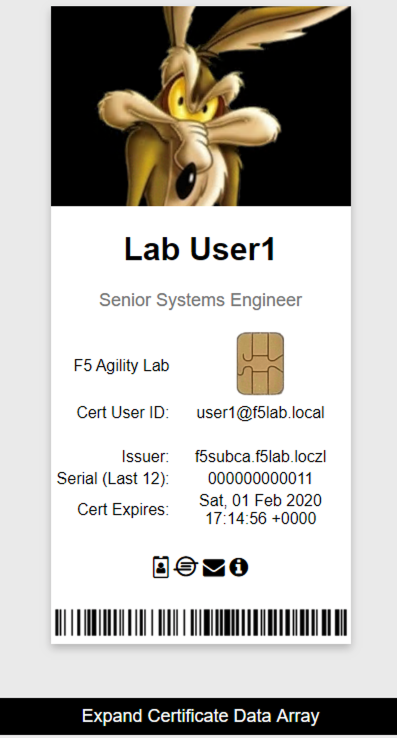
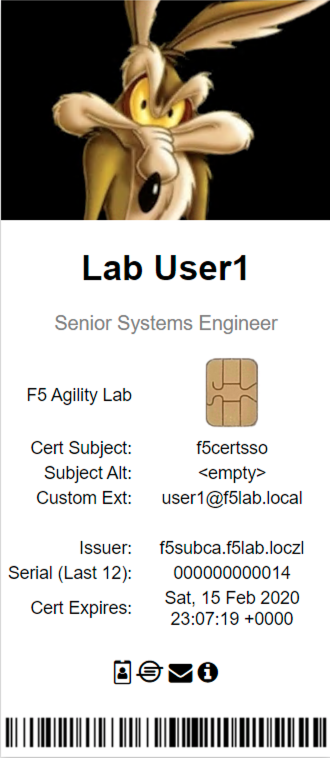
updated testing pages

diff --git a/docs/class1/module1/lab007.rst b/docs/class1/module1/lab007.rst
@@ -15,19 +15,23 @@ Task - Access mtls.acme.com
 
 |image44|
 
-3. You will be logged into the site displaying the Cert userID for **user1@f5lab.local**
+3. You will be logged into the site as **User1**. 
 
-4. Click the **Expand Certificate Data Array** to see the contents of the certificate.
+.. note ::  
+
+        The contents of the certificate used for logging into the website was the CertSSO certificate copied into Per-Session Policy. The irule attached inserted the custom extension 1.1.1.1 with the value containing the user's logon name.   Notice the Subject Name is CertSSO, the Subject Alternative Name is empty and the custom extension is user1@f5lab.local
+        
+ 	| Cert Subject: **f5certsso**
+	| Subject Alt: **<empty>**
+	| Custom Ext: **user1@f5lab.local**
+	
+
+        
+
+
 
 |image45|
 
-5. Scroll down the Certificate contents and you will see in **Subject Array** that the commonName of the certificate is **F5CertSSO**. This certificate was built using the contents of the certificate copied into the APM policy.
-
-|image46|
-
-6. Continue to scroll down to the **extensions array** section and you will see that a custom extension of **1.1.1.1** has been inserted into the minted certificate.  The value is **user1@f5lab.local** base64 encoded.
-
-|image47|
 
 7. Open a new incognito browser window so you can test access to mtls.acme.com with different user credentials.
 
@@ -35,34 +39,32 @@ Task - Access mtls.acme.com
 
 |image49|
 
-
-
-8. Login with the username: **user2** and password: **user2**
+8. Login with the username: **user2** and password: **User2**
 
 |image50|
 
-9. You will be logged into the site displaying the Cert userID for **user2@f5lab.local**
-10. Click the **Expand Certificate Data Array** to see the contents of the certificate
+9. You will be logged into the site as **user2@f5lab.local**
+
+.. note ::  
+
+        Notice that user2's Cert Subject is the same as User1, but the custom extension name is different containing user2@f5lab.local.        
+ 	
+        | Cert Subject: **f5certsso**
+	| Subject Alt: **<empty>**
+	| Custom Ext: **user2@f5lab.local**
 
 |image51|
 
-11. Scroll down the Certificate contents and you will see in **Subject Array** that the commonName of the certificate is **F5CertSSO**. This certificate was built using the contents of the certificate copied into the APM policy.
 
-|image46|
-
-12. Continue to scroll down to the **extension array** section and you will see that a custom extension of **1.1.1.1** has been inserted into the minted certificate.  The value is **user2@f5lab.local** base64 encoded.
-
-|image53|
 
 
 
 .. |image43| image:: /_static/module1/image043.png
 .. |image44| image:: /_static/module1/image044.png
 .. |image45| image:: /_static/module1/image045.png
-.. |image46| image:: /_static/module1/image046.png
-.. |image47| image:: /_static/module1/image047.png
+
 .. |image48| image:: /_static/module1/image048.png
 .. |image49| image:: /_static/module1/image049.png
 .. |image50| image:: /_static/module1/image050.png
 .. |image51| image:: /_static/module1/image051.png
-.. |image53| image:: /_static/module1/image053.png
+

diff --git a/docs/class1/module1/lab009.rst b/docs/class1/module1/lab009.rst
@@ -15,23 +15,49 @@ Task - Access mtls.acme.com
 
 |image44|
 
-#. You will be logged into the site displaying the Cert userID for **user1@f5lab.local**
+#. You will be logged into the site as **user1@f5lab.local**
 
-#. Click the **Expand Certificate Data Array** to see the contents of the certificate.
 
-|image45|
+.. note ::  
 
-#. Scroll down the certificate contents and you will see in **Subject Array** that the **commonName** of the certificate is **user1**. This certificate was built using the contents of the certificate retrieved using HTTP Connector.
+        The contents of the certificate used for logging into the website were from certificate retrieved via HTTP connector in Active Directory. The irule continues to 	insert the custom extension 1.1.1.1 with the value containing the user's logon name.   Notice the Subject Name is user1, the Subject Alternative Name is u		ser1@f5lab.local and the custom extension is user1@f5lab.local
+        
+ 	| Cert Subject: **user1**
+	| Subject Alt: **user1@f5lab.local**
+	| Custom Ext: **user1@f5lab.local**
+	
 
 |image85|
 
-#. Continue to scroll down to the **extension array** section and you will see the **subjectAltName** extension of **user1@f5lab.local** has been inserted into the minted certificate.
+7. Open a new incognito browser window so you can test access to mtls.acme.com with different user credentials.
+
+|image48|
+
+|image49|
+
+8. Login with the username: **user2** and password: **User2**
+
+|image50|
+
+9. You will be logged into the site as **user2@f5lab.local**
+
+.. note ::  
+
+	 Notice that user2's Cert Subject is now user2 and the subject alt is user2@f5lab.local.  The irule continues to insert the custom extension.   	
+        | Cert Subject: **user2**
+	| Subject Alt: **user2@f5lab.local**
+	| Custom Ext: **user2@f5lab.local**
 
 |image86|
+
 
 
 .. |image43| image:: /_static/module1/image043.png
 .. |image44| image:: /_static/module1/image044.png
 .. |image45| image:: /_static/module1/image045.png
+.. |image48| image:: /_static/module1/image048.png
+.. |image49| image:: /_static/module1/image049.png
+.. |image50| image:: /_static/module1/image050.png
 .. |image85| image:: /_static/module1/image085.png
 .. |image86| image:: /_static/module1/image086.png
+
